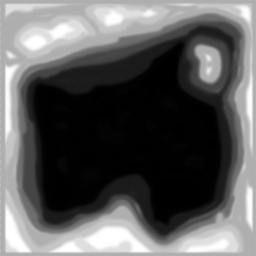
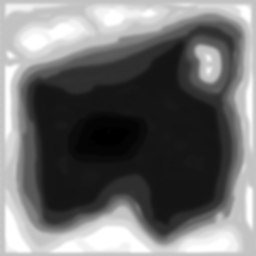
VR Map is goed (Kan zeker mooier en verbeterd worden)

diff --git a/CS_Application_Mermans_Stefan/RemoteHealthCareCS/VRFrom_Gijs/Forms/TunnelCommandForm.cs b/CS_Application_Mermans_Stefan/RemoteHealthCareCS/VRFrom_Gijs/Forms/TunnelCommandForm.cs
@@ -19,11 +19,11 @@ namespace VRFrom_Gijs.Forms
         public static AutoResetEvent blocker;
         private Connection _connection;
         public string Name { get; set; }
-        private Node _bike = null, _tree = null;
+        private Node _bike = null, _tree = null, _water =null, _fence = null, _rock = null;
         private Skybox _skybox = null;
         private bool _send = false;
         private Random random = new Random();
-        private List<Point> points;
+        private List<Punt> points;
         private Forest forest;
 
         public TunnelCommandForm(Connection connection, string name)
@@ -48,8 +48,11 @@ namespace VRFrom_Gijs.Forms
             Thread.Sleep(3000);
             paintTerrain();
             blocker.WaitOne(5000);
-
-
+            createWater();
+            blocker.WaitOne(5000);
+            createForest();
+            blocker.WaitOne(5000); 
+            
             createRoad();
             //blocker.WaitOne(5000);
             //createBike();
@@ -141,10 +144,40 @@ namespace VRFrom_Gijs.Forms
                     data = new
                     {
                         id = _connection.TerrainId,
-                        normal = "data/NetworkEngine/textures/terrain/grass_rocky_n.jpg",
-                        diffuse = "data/NetworkEngine/textures/terrain/grass_rocky_d.jpg",
-                        minHeight = 0,
+                        normal = "data/NetworkEngine/textures/terrain/mntn_green_n.jpg",
+                        diffuse = "data/NetworkEngine/textures/terrain/mntn_green_d.jpg",
+                        minHeight = 16,
                         maxHeight = 30,
+                        fadeDist = 0
+                    }
+                }, _connection.TunnelId));
+
+            _connection.SendMessage(
+                RequestCreater.TunnelSend(new
+                {
+                    id = "scene/node/addlayer",
+                    data = new
+                    {
+                        id = _connection.TerrainId,
+                        normal = "data/NetworkEngine/textures/terrain/grass_green_n.jpg",
+                        diffuse = "data/NetworkEngine/textures/terrain/grass_green_d.jpg",
+                        minHeight = 2,
+                        maxHeight = 16,
+                        fadeDist = 0
+                    }
+                }, _connection.TunnelId));
+
+            _connection.SendMessage(
+                RequestCreater.TunnelSend(new
+                {
+                    id = "scene/node/addlayer",
+                    data = new
+                    {
+                        id = _connection.TerrainId,
+                        normal = "data/NetworkEngine/textures/terrain/ground_dry2_n.jpg",
+                        diffuse = "data/NetworkEngine/textures/terrain/ground_dry2_d.jpg",
+                        minHeight = 0,
+                        maxHeight = 1,
                         fadeDist = 1
                     }
                 }, _connection.TunnelId));
@@ -191,10 +224,10 @@ namespace VRFrom_Gijs.Forms
         {
             points = forest.getForest();
 
-            foreach (Point point in points)
+            foreach (Punt point in points)
             {
                 Thread.Sleep(10);
-                _tree = new Node("tree", _connection.TunnelId, "data/NetworkEngine/models/trees/fantasy/tree1.obj", point.X, 0, point.Y, getRandom());
+                _tree = new Node("tree", _connection.TunnelId, "data/NetworkEngine/models/trees/fantasy/tree2.obj", point.X, point.Z, point.Y, getRandom());
                 _connection.Nodes.Add(_tree);
 
                 Thread.Sleep(10);
@@ -207,9 +240,14 @@ namespace VRFrom_Gijs.Forms
             return random.NextDouble() * 0.6 + 1;
         }
 
-        private void createCity()
+        private void createWater()
         {
+            Thread.Sleep(10);
+            _water = new Node("water", _connection.TunnelId, 50, 2, 15, true);
+            _connection.Nodes.Add(_water);
 
+            Thread.Sleep(10);
+            _connection.SendMessage(_water.SendString);
         }
     }
 }

diff --git a/CS_Application_Mermans_Stefan/RemoteHealthCareCS/VRFrom_Gijs/VrObjects/Node.cs b/CS_Application_Mermans_Stefan/RemoteHealthCareCS/VRFrom_Gijs/VrObjects/Node.cs
@@ -35,6 +35,21 @@ namespace VRFrom_Gijs.VrObjects
             SendString = AddTerrainNode(TunnelId, "Terrain node", x, y, z);
         }
 
+        public Node(string name, string tunnelId, double x, double y, double z, bool hasWater)
+        {
+            if (hasWater)
+            {
+                Console.WriteLine("Creating Water Node");
+                Naam = name;
+                TunnelId = tunnelId;
+                SendString = WaterNode(TunnelId, "Water node", x, y, z);
+            }
+            else
+            {
+               new Node(name, tunnelId, x, y, z);
+            }
+        }
+
         private dynamic AddModelNode(string tunnelId, string name, string fileName, int x, int y, int z, double scaleValue = 1, double xR = 0, double yR = 0, double zR = 0)
         {
             return RequestCreater.TunnelSend(new
@@ -138,6 +153,33 @@ namespace VRFrom_Gijs.VrObjects
                         time = timeValue
                     }
                 }, TunnelId);
+        }
+
+        public string WaterNode(string tunnelId, string Name, double x, double y, double z, double scaleValue = 1, double xR = 0, double yR = 0, double zR = 0)
+        {
+            return RequestCreater.TunnelSend(new
+            {
+                id = "scene/node/add",
+                data = new
+                {
+                    name = Name,
+                    components = new
+                    {
+                        transform = new
+                        {
+                            position = new[] { x, y, z },
+                            scale = scaleValue,
+                            rotation = new[] { xR, yR, zR }
+                        },
+                        water = new
+                        {
+                            size = new[] { 120, 120 },
+                            resolution = 0.1
+                        }
+                    }
+
+                }
+            }, TunnelId);
         }
 
 

diff --git a/CS_Application_Mermans_Stefan/RemoteHealthCareCS/VRFrom_Gijs/Program/Forest.cs b/CS_Application_Mermans_Stefan/RemoteHealthCareCS/VRFrom_Gijs/Program/Forest.cs
@@ -1,22 +1,19 @@
-using System;
-using System.Collections.Generic;
-using System.Drawing;
-using System.Linq;
-using System.Text;
-using System.Threading.Tasks;
+using System.Collections.Generic;
 
 namespace VRFrom_Gijs.Program
 {
     class Forest
     {
-        private List<Point> points = new List<Point>();
+        private List<Punt> points = new List<Punt>();
 
         public Forest()
         {
-            
+            points.Add(new Punt(30, 72, 2));
+            points.Add(new Punt(34, 73, 2));
+            points.Add(new Punt(32, 70, 2));
         }
 
-        public List<Point> getForest()
+        public List<Punt> getForest()
         {
             return points;
         }

diff --git a/CS_Application_Mermans_Stefan/RemoteHealthCareCS/VRFrom_Gijs/VrObjects/Terrain.cs b/CS_Application_Mermans_Stefan/RemoteHealthCareCS/VRFrom_Gijs/VrObjects/Terrain.cs
@@ -76,7 +76,7 @@ namespace VRFrom_Gijs.VrObjects
     {
         public static double[] GenerateHeightmap()
         {
-            var heightMap = Image.FromFile(@"..\..\res/heightmaptest.jpg");
+            var heightMap = Image.FromFile(@"..\..\res/heightmaptest2.jpg");
             var bitHeigthMap = new Bitmap(heightMap, 256, 256);
             var pixels = new double[256 * 256];
             for (int countRow = 0; countRow < 256; countRow++)
@@ -92,7 +92,7 @@ namespace VRFrom_Gijs.VrObjects
 
         private static double colorToInt(Color c)
         {
-            return (double)c.B / 10;
+            return (double)c.B / 8;
         }
     }
 }

diff --git a/CS_Application_Mermans_Stefan/RemoteHealthCareCS/VRFrom_Gijs/Program/Punt.cs b/CS_Application_Mermans_Stefan/RemoteHealthCareCS/VRFrom_Gijs/Program/Punt.cs
@@ -1,0 +1,22 @@
+using System;
+using System.Collections.Generic;
+using System.Linq;
+using System.Text;
+using System.Threading.Tasks;
+
+namespace VRFrom_Gijs.Program
+{
+    class Punt
+    {
+        public int X { get; set; }
+        public int Y { get; set; }
+        public int Z { get; set; }
+
+        public Punt(int x, int y, int z)
+        {
+            this.X = x;
+            this.Y = y;
+            this.Z = z;
+        }
+    }
+}
